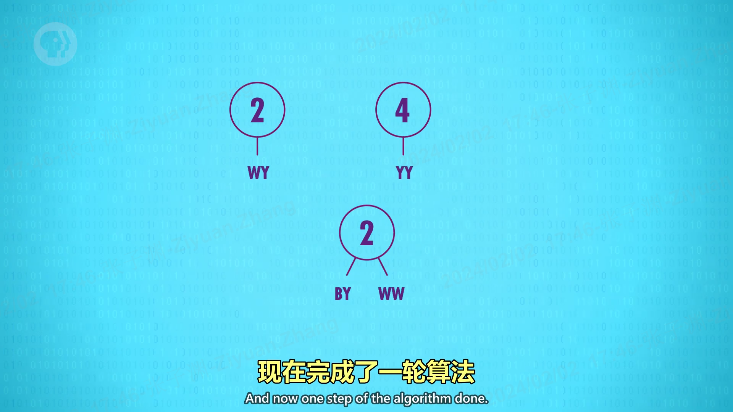
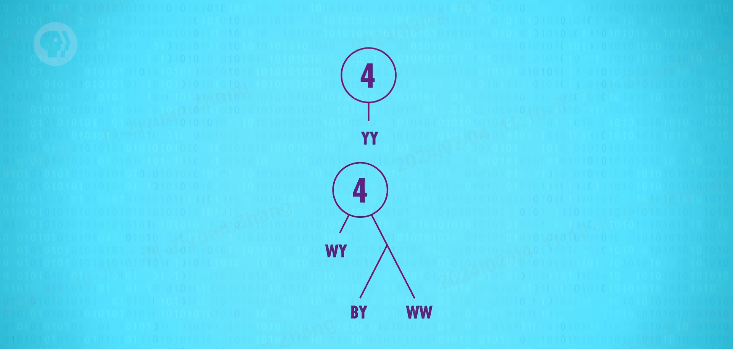
d

diff --git a/膜拜大神所得/0. 计算机构成系列/计算机科学速成课.md b/膜拜大神所得/0. 计算机构成系列/计算机科学速成课.md
@@ -557,19 +557,36 @@ CPU 负责执行程序。通常由 寄存器、控制器单元、ALU（计算逻
 
 - 概念梳理
 
-  1. 游程编码（Run-Length Encoding）适合经常出现相同值的文件，以吃豆人游戏为例：
+1. 无损压缩 （Lossless compression）：没有损失任何数据的压缩。解压后，数据和压缩前完全一样。
+2. 无损压缩--游程编码（Run-Length Encoding）适合经常出现相同值的文件，以吃豆人游戏为例：
 
-     ![游程编码1](./img/21-游程编码1.png)
-     然后删掉后面的重复数据
-     ![游程编码2](./img/21-游程编码2.png)
-     ![游程编码3](./img/21-游程编码3.png)
+   ![游程编码1](./img/21-游程编码1.png)  
+   然后删掉后面的重复数据  
+   ![游程编码2](./img/21-游程编码2.png)
+   ![游程编码3](./img/21-游程编码3.png)
 
-  2. 无损压缩 （Lossless compression）：没有损失任何数据的压缩。解压后，数据和压缩前完全一样。
+3. 无损压缩--霍夫曼树 （Huffman Tree）和字典编码 （Dictionary coders）
 
-     有一个“字典”，存储“代码”和“数据”间的对应关系
+   - 有一个“字典”，存储“代码”和“数据”间的对应关系；
+   - 一种高效的编码模式；
+   - 以压缩图片为例：把图像看成一个一个块而不是像素，为了简单，可以把 2 个像素看成一个块（占 6 字节），只有 4 对：白黄、黑黄、黄黄、白白（WY、BY、YY、WW）；他们出现的频率不同。
+     ![霍夫曼树1](./img/21-霍夫曼树1.png)
+     1. ![霍夫曼树2](./img/21-霍夫曼树2.png)  
+        这里 黑黄和白白 的频率最低，他们都是 1；  
+        ![霍夫曼树3](./img/21-霍夫曼树3.png)  
+        现在完成了一轮算法；
+     2. 现在我们重复这样子做，这次有 3 个可选；  
+        ![霍夫曼树4](./img/21-霍夫曼树4.png)
+        ![霍夫曼树5](./img/21-霍夫曼树5.png)
+     3. ![霍夫曼树6](./img/21-霍夫曼树6.png)  
+        现在看起来像这样，它有一个很酷的属性：按频率偶排序。
+     4. 我们可以把每个分支用 0 和 1 标注。  
+        ![霍夫曼树7](./img/21-霍夫曼树7.png)
+     5. 现在来压缩图片，第一个像素对，白黄替换成 10；  
+        ![霍夫曼树8](./img/21-霍夫曼树8.png)  
+        之前 48 字节（byte）现在变成了 14 位（bit）, 注意是位（bit）不是字节（byte）
+     6. 把字典加到 14bit 前面；  
+        ![霍夫曼树9](./img/21-霍夫曼树9.png)
 
-  3. 无损压缩--霍夫曼树 （Huffman Tree）和字典编码 （Dictionary coders）
-
-     一种高效的编码模式，以压缩图片为例：把图像看成一个一个块而不是像素，为了简单，可以把 2 个像素看成一个块（占 6 字节），只有 4 对：白黄、黑黄、黄黄、白白；他们出现的频率不同
-
-“消除冗余”和“用更紧凑的表示方法”，这两种方法通常会组合使用，几乎所有无损压缩格式都用了他们。“游戏编码”和“字典编码”都是无损压缩的，压缩时不会丢失信息，解压后，数据和之前完全一样
+   * “消除冗余”和“用更紧凑的表示方法”，这两种方法通常会组合使用，几乎所有无损压缩格式都用了他们。
+   * “游戏编码”和“字典编码”都是无损压缩的，压缩时不会丢失信息，解压后，数据和之前完全一样
